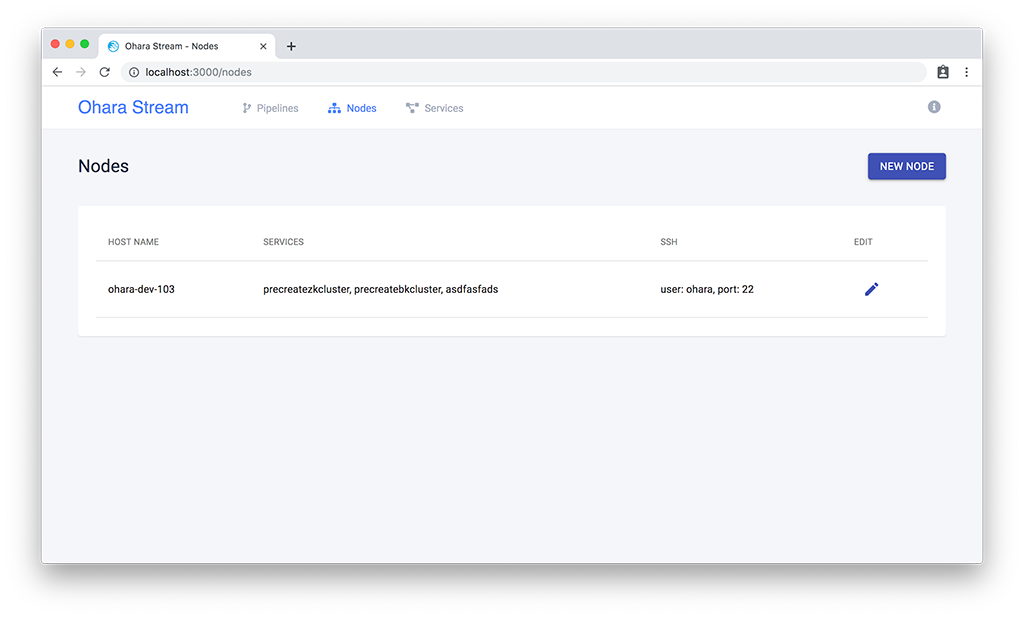
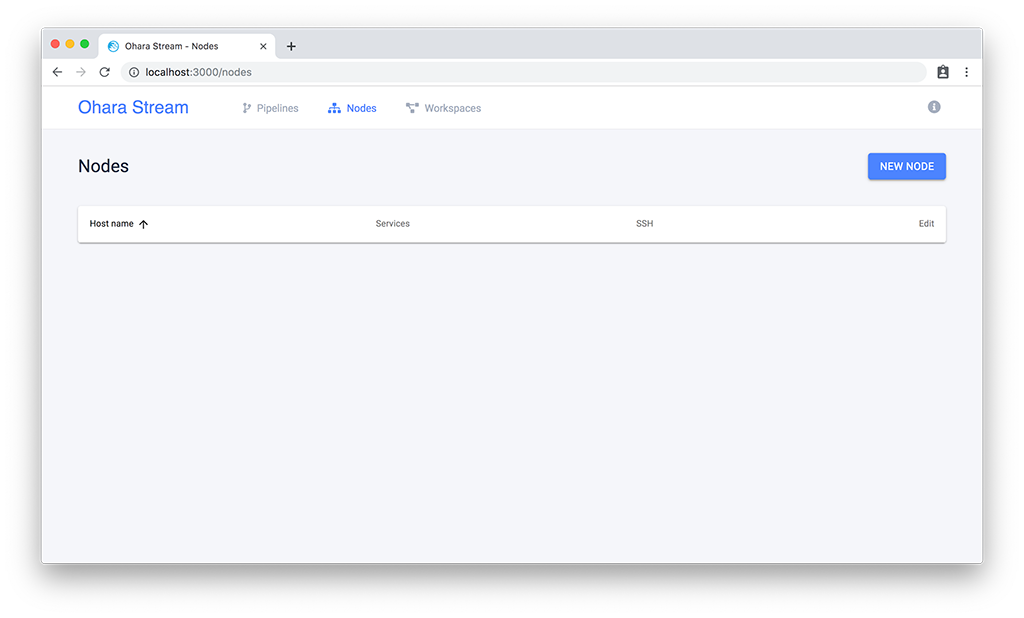
#1924 User Guide: Workspace section (backport to 0.7) (#2416)

diff --git a/docs/src/user_guide.rst b/docs/src/user_guide.rst
@@ -393,20 +393,26 @@ of code.
 Pipelines
 ~~~~~~~~~
 
-Pipeline list page is where you can see, create, edit and delete
-pipelines. |Ohara Manager Pipeline list page|
+Pipeline list page is where you can view, create, edit and delete
+pipelines.
 
-Inside the new/edit pipeline page, you can create and play around with
+.. figure:: images/pipelines.png
+   :alt: Ohara Manager Pipelines page
+
+Inside the new/edit pipeline pages, you can create and play around with
 your pipelines here. This is also where you can run and stop your
-pipelines. The pipeline graph helps you to visualize the pipeline that
-you’re working on. Also, you can edit a connector’s config by clicking
-on the graph and edit the config form which will be displayed in the
-sidebar. We know it’s sometimes tedious and time consuming to edit these
-config and it’s frustrating when you lose all of your config without
-saving them! That’s why we made these config forms automatically save
+pipelines. The pipeline graph helps you to easily visualize the pipeline that
+you’re working on. Also, you can edit and tweak a connector’s configuration by clicking
+on the graph and edit the configuration form which will be displayed in the
+sidebar. We know it’s sometimes tedious and time consuming to edit the
+configuration and it’s also frustrating when you lose all of your configuration without
+saving them! That’s why we made these configuration forms automatically save
 changes for you. Whenever you type in a text field, choose a new topic
 form a dropdown, the changes will be saved immediately. |Ohara Manager
 Pipeline new/edit page|
+
+    Please note that a pipeline can only be added to a workspace, so before
+    creating pipelines, you will need to `create a workspace first <#userguide-ohara-manager-workspaces>`_
 
 Nodes
 ~~~~~
@@ -419,56 +425,48 @@ you supplied to the CLI will then be listed in this page.
 .. figure:: images/nodes.png
    :alt: Ohara Manager Nodes page
 
-   Ohara Manager Nodes page
+.. _userguide-ohara-manager-workspaces:
 
-Services
-~~~~~~~~
+Workspaces
+~~~~~~~~~~
 
-We have a couple of sub pages here, you can navigate between these pages
-by clicking on the sub menu on the left hand side sidebar:
+A workspace contains multiple Ohara services including: Zookeepers, Brokers and Workers. You can
+create a workspace and add new node, topic and stream application in these pages.
 
--  **Broker**:
+.. figure:: images/workspaces.png
+   :alt: Ohara Manager Workspaces page
 
-   You can view your running brokers here as well as adding new topics
-   in an existing broker. Please note that as of Ohara v0.5.0, we
-   doesn’t support creating broker with the UI yet. You can do so via
-   the :ref:`RESTful APIs <rest>`.
+   Ohara Manager Workspaces page
 
-   .. figure:: images/broker.png
-      :alt: Ohara Manager broker page
+-  **Overview**:
 
-      Ohara Manager broker page
+   Overview page is like a dashboard of the worksapce. You can view the services, connectors, topics
+   and stream jars that are using in this workspace
 
--  **Zookeeper**:
+   .. figure:: images/workspaces_overview.png
+      :alt: Ohara Manager Workspaces Overview page
 
-   This is similar to broker page. The zookeeper page shows your
-   zookeeper info. As mentioned above, our UI doesn’t support creating
-   zookeepers yet. But you can definitely do so with the RESTful APIs
+-  **Nodes**:
 
-   .. figure:: images/zookeeper.png
-      :alt: Ohara Manager zookeeper page
+   When creating a workspace, you can choose which node to deploy your services. But you tweak the
+   node settings here.
 
-      Ohara Manager zookeeper page
+   .. figure:: images/workspaces_nodes.png
+      :alt: Ohara Manager Workspaces Nodes page
 
--  **Connect**:
+-  **Topics**:
 
-   In this page, you can create a new connect worker and view its
-   details info here.
+   You can add new topics to your worksace as well as deleting them here.
 
-   .. figure:: images/connect_worker.png
-      :alt: Ohara Manager connect worker page
+   .. figure:: images/workspaces_topics.png
+      :alt: Ohara Manager Workspaces Topics page
 
-      Ohara Manager connect worker page
+-  **Stream jars**:
 
-   When creating a new connect worker. You’re also able to upload custom
-   connector jars as well as database drivers like MySQL or PostgreSQL.
-   Note that once a worker is created there’s no way to edit or delete
-   directly from UI.
+   Same like the topics page, you can add and delete stream jars in this page
 
-   .. figure:: images/connect_worker_new.png
-      :alt: Ohara Manager connect worker new page
-
-      Ohara Manager connect worker new page
+   .. figure:: images/workspaces_stream.png
+      :alt: Ohara Manager Workspaces Stream App page
 
 If you’d like to learn more about the development setup or have issue
 starting/working with it. Please see the :ref:`docs <managerdev>` here
